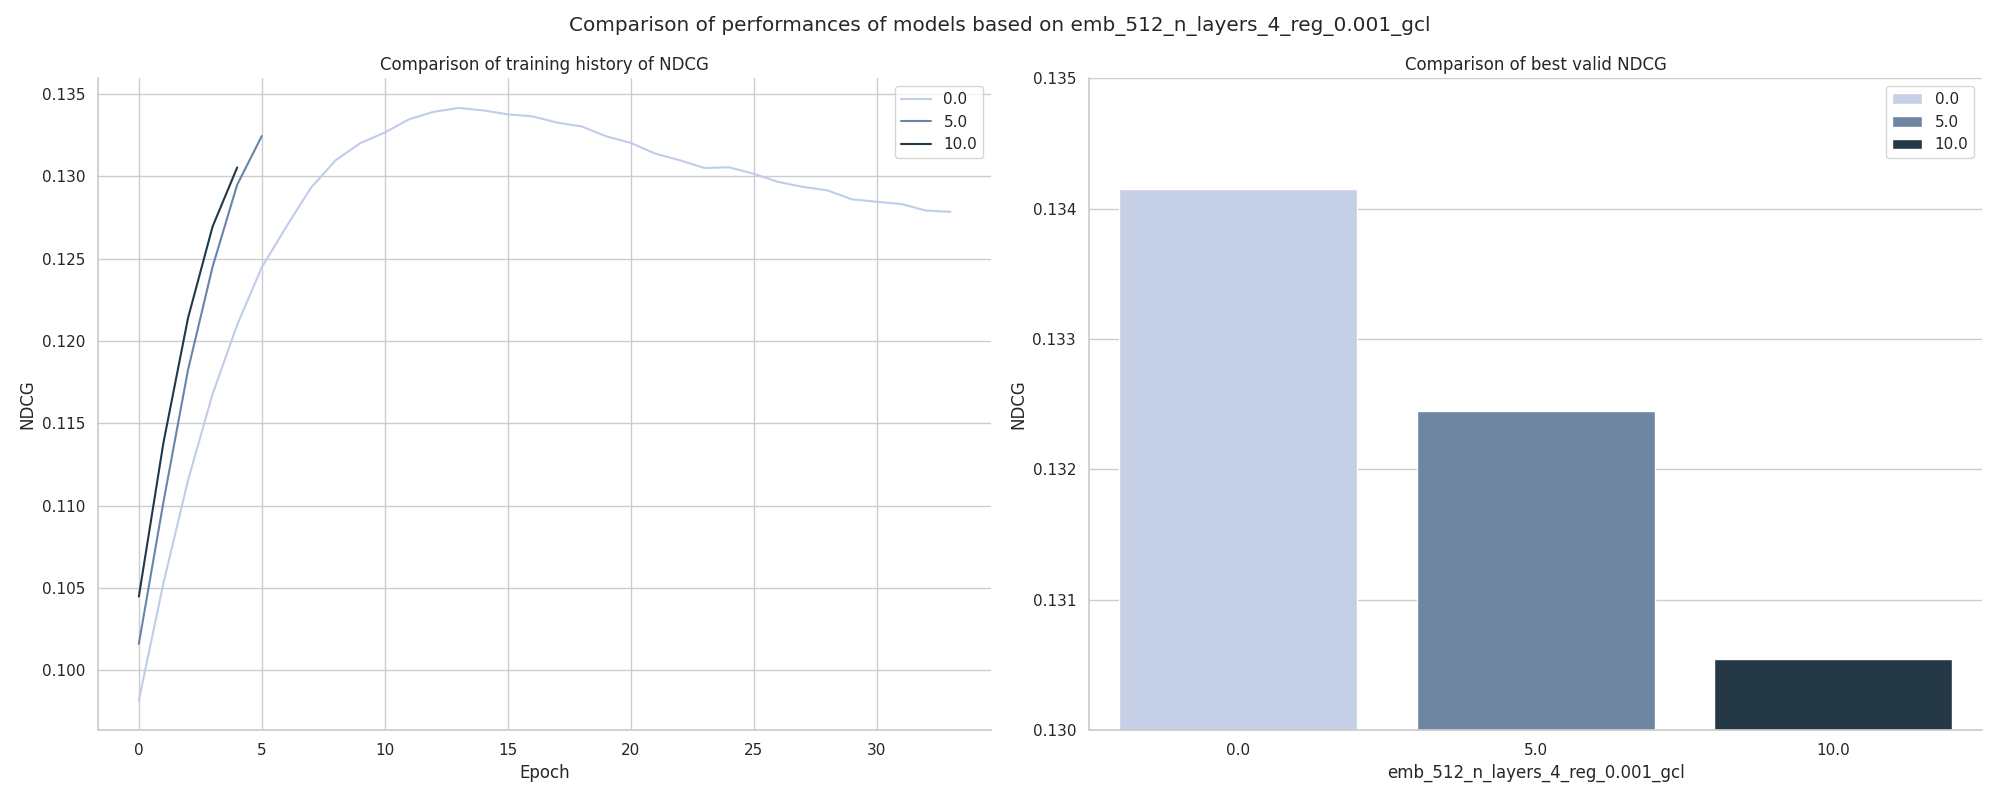
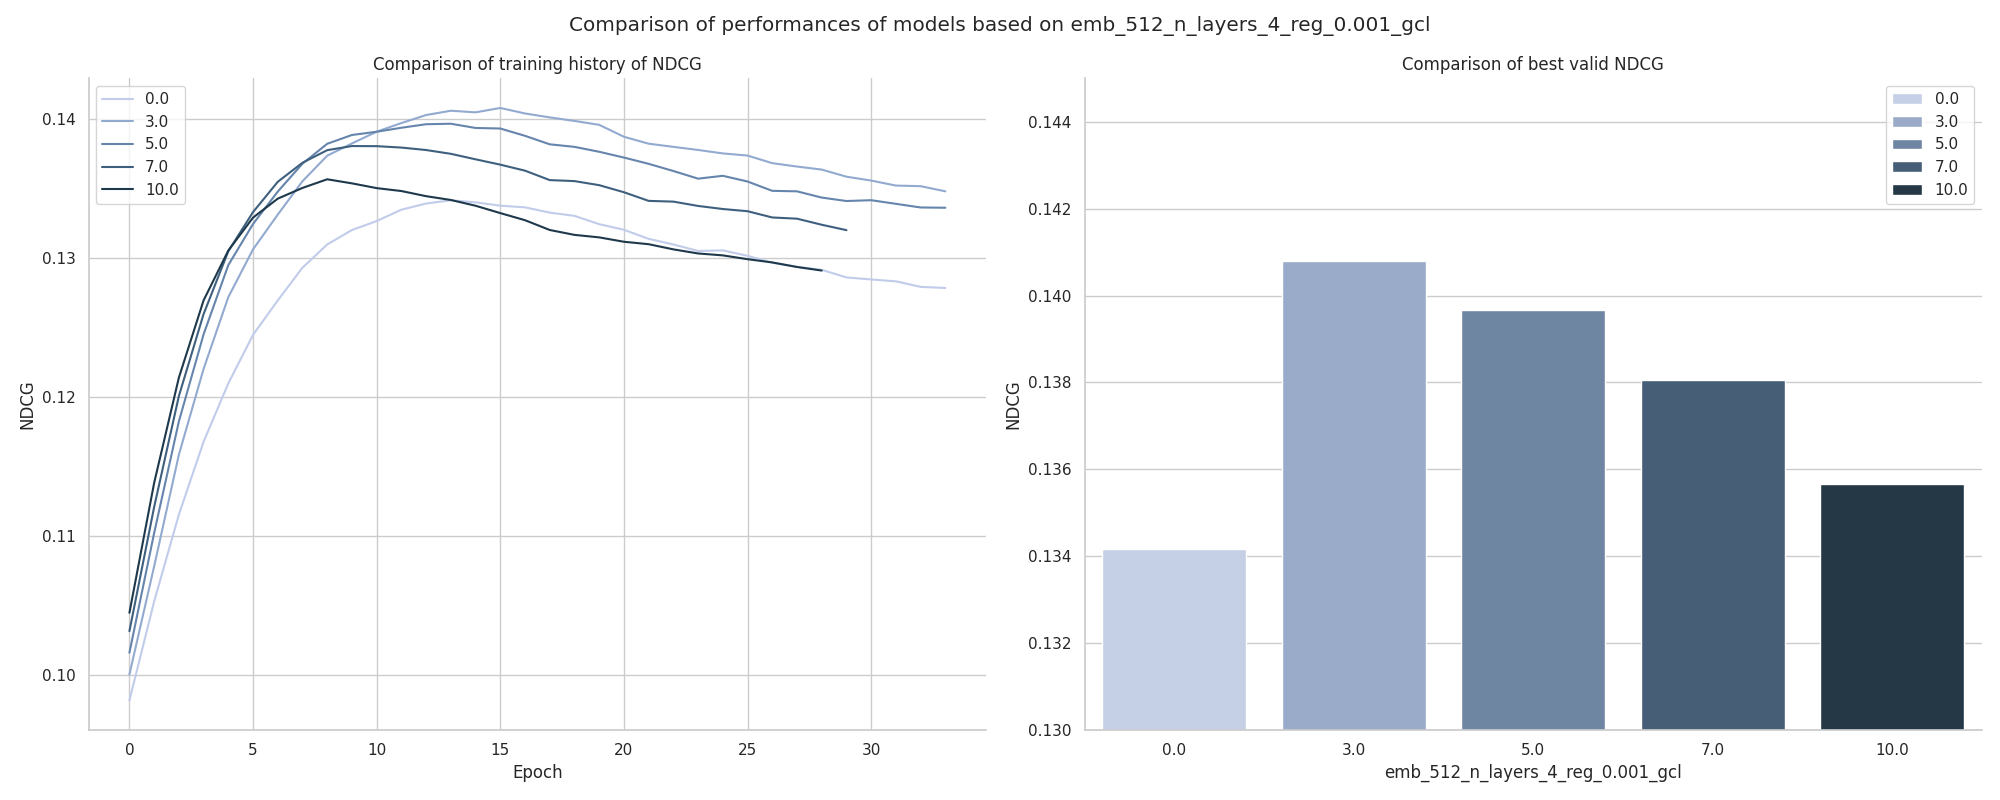
experiments with different k neighbors

diff --git a/evaluation/compare_models.py b/evaluation/compare_models.py
@@ -9,29 +9,60 @@ import seaborn as sns
 
 from hydra import initialize, compose
 
-def update_performance_csv(cfg):
+def update_performances(config_path, view_columns=None):
+    hyperparameters = [
+        (["training", "batch_size"], 1024),
+        (["training", "lr"], 0.001),
+        (["training", "reg_weight"], 0.0001),
+
+        (["training", "gcl_reg"], 0.1),
+        (["training", "gcl_eps"], 0.1),
+        (["training", "gcl_temp"], 0.3),
+
+        (["model", "embedding_dim"], 64),
+        (["model", "n_layers"], 3),
+
+        (["model", "geo_threshold"], 0.0),
+        (["model", "geo_k_neighbors"], 0),
+        (["model", "geo_weight"], 1.0),
+
+        (["model", "time_decay"], 0.0),
+        (["model", "time_min_weight"], 0.0),
+
+        (["model", "layer_weighting"], "uniform"),
+        (["model", "layer_decay"], 0.0)
+    ]
+
+    cfg = load_hydra_config("baseline", config_path)
+    log_folder = f"../logs/{cfg.dataset.country}"
+
     metrics = []
-    for log_file in os.listdir(f"{cfg.paths.logs}"):
-        with open(f"{cfg.paths.logs}/{log_file}", "r") as f:
-            results = json.load(f)
+    for name in os.listdir(log_folder):
+        cfg = load_hydra_config(name.replace(".json", ""), config_path)
 
-        recall = results["valid"]["recall"]
-        ndcg = results["valid"]["ndcg"]
+        with open(f"../logs/{cfg.dataset.country}/{name}", "r") as f:
+            results = json.load(f)["valid"]
 
-        n_patience = len(ndcg) - (np.argmax(ndcg) + 1)
+        n_patience = len(results["ndcg"]) - (np.argmax(results["ndcg"]) + 1)
+        best_index = np.argmax(results["ndcg"])
+        recall, ndcg = results["recall"][best_index], results["ndcg"][best_index]
+        metric = [recall, ndcg, n_patience]
 
-        min_index = np.argmax(ndcg)
-        metrics.append((log_file.replace(".json", ""),
-             recall[min_index], ndcg[min_index], min_index+1, n_patience
-        ))
+        metric += [cfg[target[0]].get(target[1], default) for (target, default) in hyperparameters]
+        metric += [name.replace(".json", "")]
+        metrics.append(metric)
 
-    df = pd.DataFrame(metrics, columns=["name", "recall", "ndcg", "epoch", "n_patience"])
-    df = df.sort_values(by="ndcg").reset_index(drop=True)
+    columns = ["recall", "ndcg", "n_patience"] + [target[1] for (target, _) in hyperparameters] + ["name"]
+    df = pd.DataFrame(metrics, columns=columns).sort_values(by="ndcg").reset_index(drop=True)
 
+    if view_columns is None:
+        view_columns = columns
+
+    pd.set_option("display.max_colwidth", None)
     pd.set_option("display.max_rows", None)
-    print(df)
+    print(df[["recall", "ndcg", "n_patience"] + view_columns + ["name"]])
 
-    df.to_csv(f"{cfg.paths.result}/performances.csv", index=False)
+    df.to_csv("../results/performances.csv", index=False)
 
 def load_hydra_config(name, config_path):
     with initialize(version_base=None, config_path=config_path):
@@ -134,6 +165,8 @@ def plot_comparisons_two_targets(names, targets, config_path, target_name=None, 
 
 if __name__ == "__main__":
     config_path = "../config"
+    view_columns = ["geo_k_neighbors", "geo_weight"]
+    update_performances(config_path, view_columns=view_columns)
 
     names = ["emb_32", "baseline", "emb_128", "emb_256", "emb_512", "emb_1024"]
     targets = ["model", "embedding_dim"]
@@ -289,8 +322,19 @@ if __name__ == "__main__":
 
     names = [
         "emb_512_n_layers_4_reg_0.001_gcl",
+        "emb_512_n_layers_4_reg_0.001_gcl_geo_distance_neighbors_3_weight_1.0",
         "emb_512_n_layers_4_reg_0.001_gcl_geo_distance_neighbors_5_weight_1.0",
+        "emb_512_n_layers_4_reg_0.001_gcl_geo_distance_neighbors_7_weight_1.0",
         "emb_512_n_layers_4_reg_0.001_gcl_geo_distance_neighbors_10_weight_1.0"
     ]
     targets = ["model", "geo_k_neighbors"]
     plot_comparisons_one_target(names, targets, config_path, target_name="emb_512_n_layers_4_reg_0.001_gcl")
+
+    names = [
+        "emb_512_n_layers_4_reg_0.001_gcl",
+        "emb_512_n_layers_4_reg_0.001_gcl_geo_distance_neighbors_5_weight_1.0",
+        "emb_512_n_layers_4_reg_0.001_gcl_geo_distance_neighbors_5_weight_2.0",
+        "emb_512_n_layers_4_reg_0.001_gcl_geo_distance_neighbors_5_weight_5.0",
+    ]
+    targets = ["model", "geo_weight"]
+    plot_comparisons_one_target(names, targets, config_path, target_name="emb_512_n_layers_4_reg_0.001_gcl_geo_distance_neighbors_5")

diff --git a/main.py b/main.py
@@ -64,9 +64,6 @@ def evaluate_model(cfg):
     print("    Splitting embeddings...")
     split_embeddings(cfg)
 
-    print("    Updating performance csv...")
-    update_performance_csv(cfg)
-
     print("    Plotting training history...")
     plot_training_history(cfg)
 
